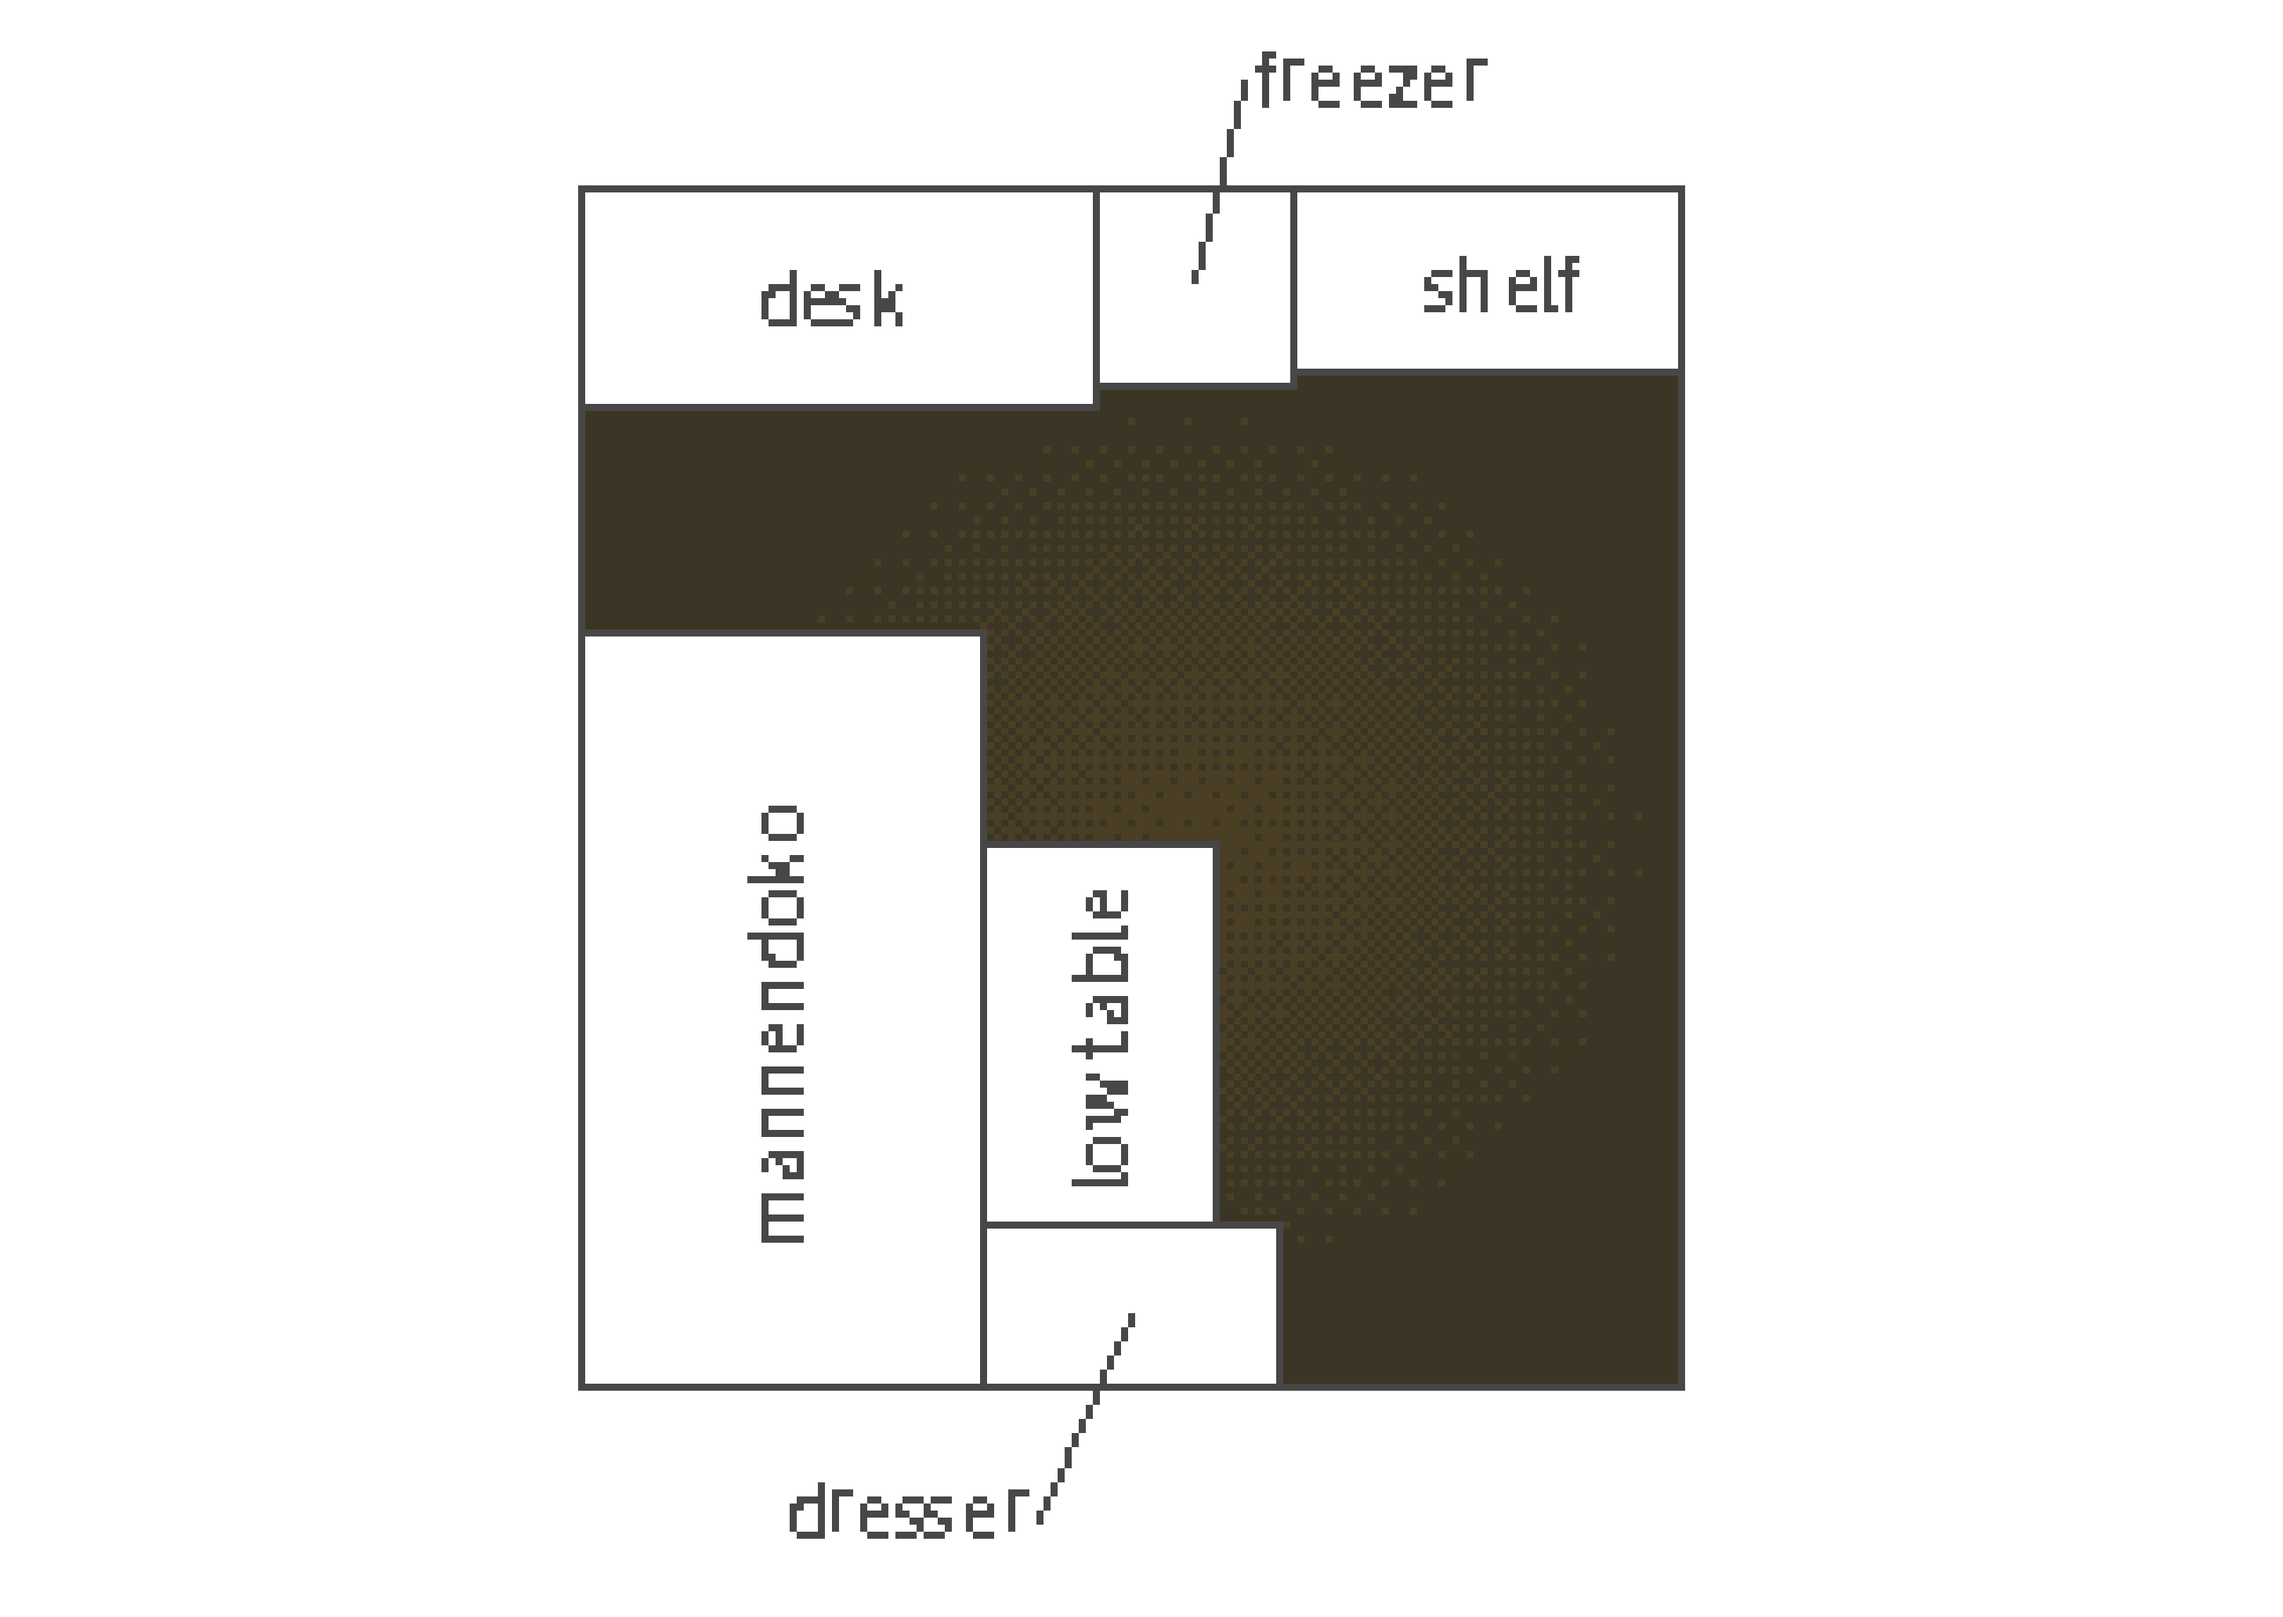
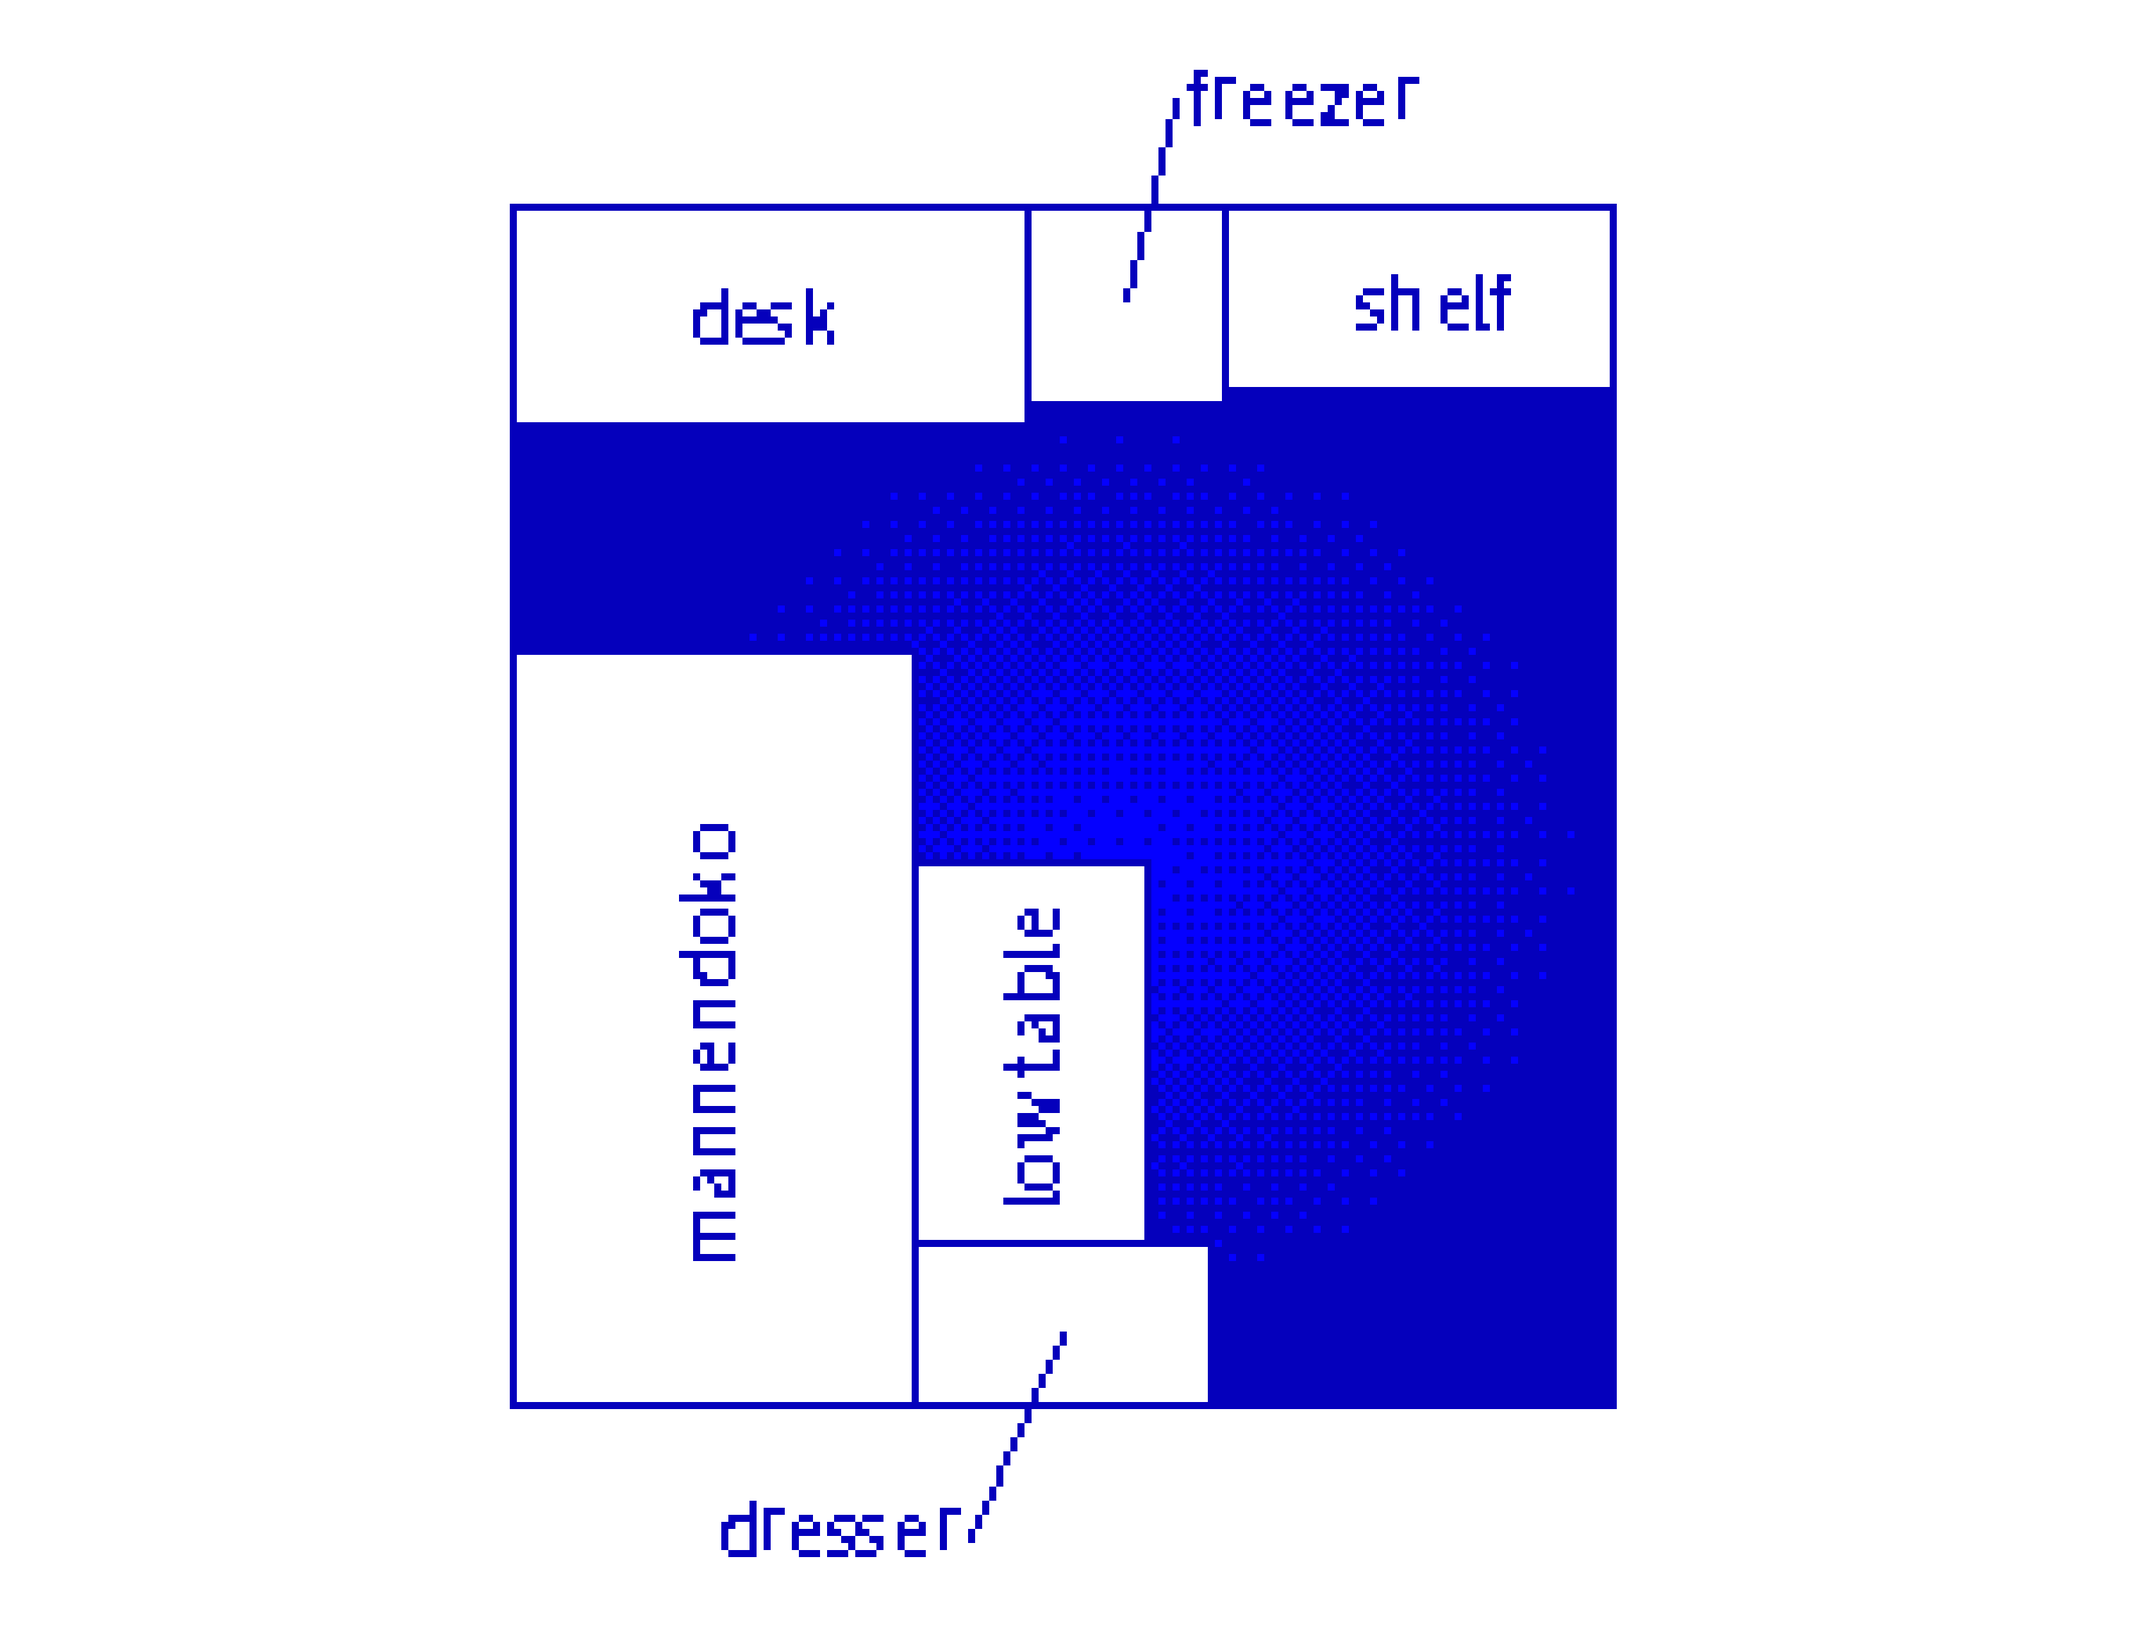
updated

Changed region(s): [[0.2184, 0.031, 0.78, 0.8976], [0.312, 0.4952, 0.3744, 0.7738], [0.312, 0.8976, 0.468, 0.9595]]

diff --git a/_sass/main.scss b/_sass/main.scss
@@ -28,6 +28,8 @@ body:has(.index) {
   font-weight: 450;
 }
 
+// 要素のデフォ設定
+
 a:visited {
   color: #0500ff;
 }
@@ -36,6 +38,28 @@ hr {
   border: none;
   border-top: 1px solid #0500ff;
   margin: 1em auto;
+}
+
+
+// 記事の設定
+h1 {
+  font-weight: 900;
+  font-size: 1.1em;
+}
+
+h2,
+h3,
+h4,
+h5,
+h6 {
+  line-height: 1.1em;
+  font-size: 1em;
+  font-weight: 700;
+}
+
+ul {
+  list-style-type: "-   ";
+  margin-bottom: 0.5em;
 }
 
 // 大体の設定
@@ -84,6 +108,21 @@ hr {
   text-align: justify;
   padding-right: 0.5%;
 
+  h2,
+  h3,
+  h4,
+  h5,
+  h6,
+  p,
+  ul {
+
+    margin: 0% !important;
+  }
+
+  .random-title {
+    font-size: 0.9rem;
+  }
+
   img {
     width: 100%;
   }
@@ -97,26 +136,6 @@ hr {
   bottom: 0;
 }
 
-// 記事の設定
-h1 {
-  font-weight: 900;
-  font-size: 1.1em;
-}
-
-h2,
-h3,
-h4,
-h5,
-h6 {
-  line-height: 1.1em;
-  font-size: 1em;
-  font-weight: 700;
-}
-
-ul {
-  list-style-type: "-   ";
-  margin-bottom: 0.5em;
-}
 
 .post-meta {
   text-align: right;
@@ -168,6 +187,7 @@ ul {
   display: inline-block;
   white-space: nowrap;
   animation: marquee 6s linear infinite;
+  width: 100%;
 }
 
 @keyframes marquee {

diff --git a/_posts/2024-05-04-日記.md b/_posts/2024-05-04-日記.md
@@ -14,14 +14,20 @@ type: default
 ![](../assets/images/2024-05-05T000746.png)
 
 部屋がこういう間取りなんですけど、音の出る機械が隣に2台あるんですよね。
+
 - 冷蔵庫（ｻﾞｰｰｰｰｰｰｰｰｰｰｰｰｰｰ、ｳｨｰｰｰｰｰｰﾝ、ﾁﾘﾁﾘﾁﾘﾁﾘ）
 - デスク下のパソコン（ｻｰｰｰｰｰｰｰｰｰｰｰ/ブオオオオオオオオオオオオオオオオオオオオオ！！！！）
+
 これって狂う人は狂うのではないか
 
-なんか、常にspotifyを流しているのだけれど、それの音域と違うので気になる日はめちゃくちゃ気になってしまう。
-今日はだめな日ですね
+なんか昨日今日は、常に相対性理論とやくしまるえつこをspotifyで流しているのだけれど、それとノイズの音域と違うのでめちゃくちゃ気になってしまう。
+普段はもっとオタククラブミュージックみたいなやつだから低音に紛れるのですが
 
-そういえば妹がマジのストレス性聴覚過敏みたいなのになってた時があって、そのときは隣の部屋の俺のメンブレンｷｰﾎﾞｰﾄﾞカタカタ（たぶんデシベルでいうと10以下）で毎回彼女は発狂しそうになっていたから気になる人は本当に気になるんだろうな
+てか、やくしまるえつこ冷蔵庫の音で落ち着くとか言ってるの普通に異常者だろ……
+
+<br>
+
+騒音で言えば妹がマジのストレス性聴覚過敏みたいなのになってた時があって、そのときは隣の部屋の俺のメンブレンｷｰﾎﾞｰﾄﾞカタカタ（たぶんデシベルでいうと10以下）で毎回彼女は発狂しそうになっていたから気になる人はこんなレベルではなく本当に気になるんだろうな
 
 
 
